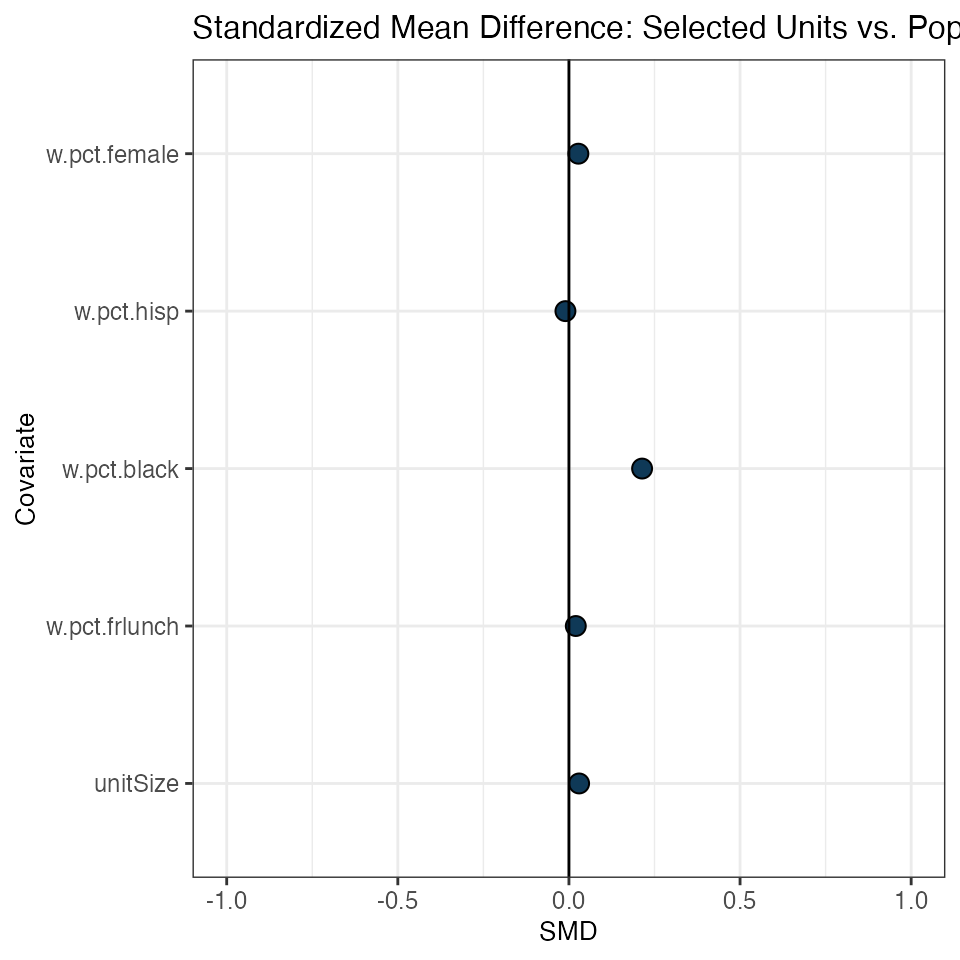
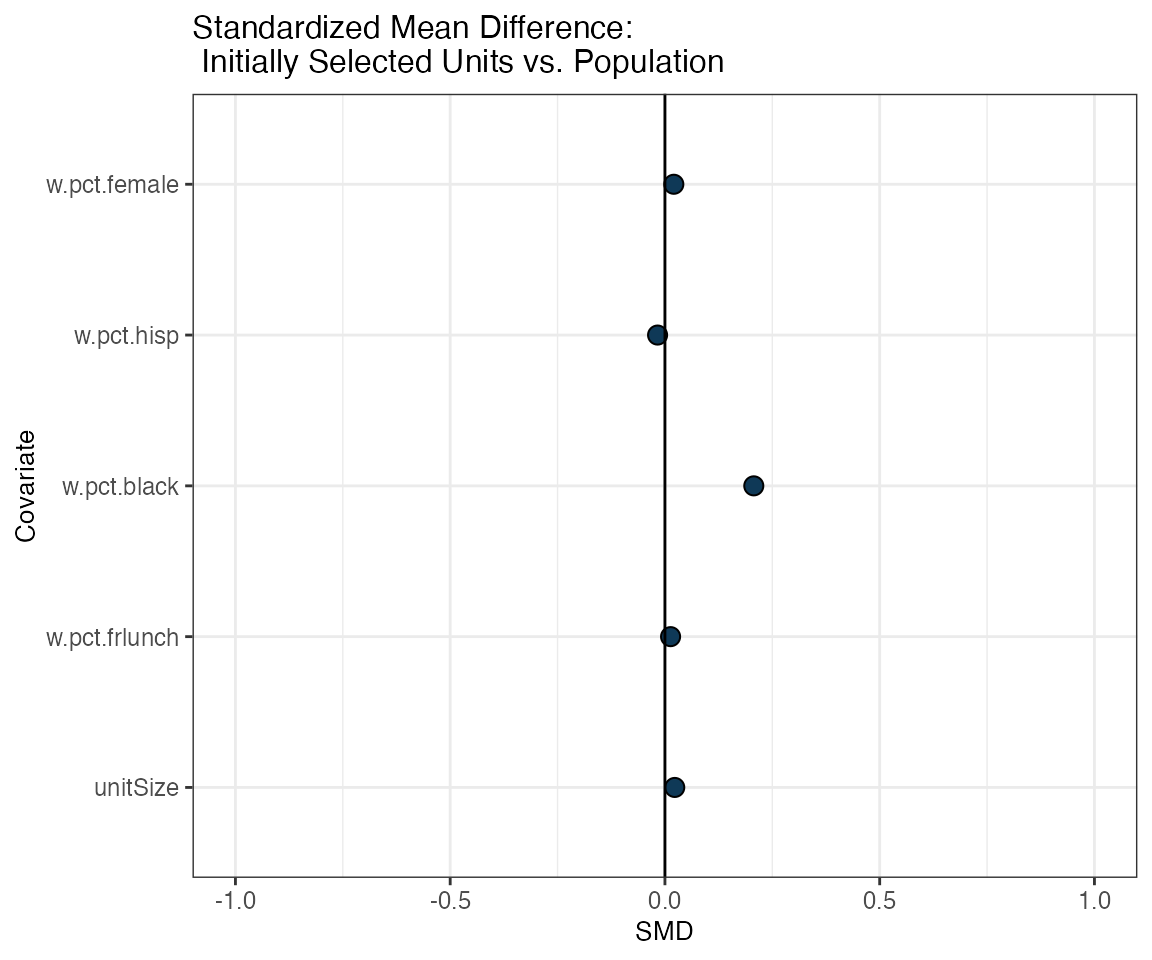
vignette edits

diff --git a/docs/articles/sitepickR-demo.html b/docs/articles/sitepickR-demo.html
@@ -209,7 +209,7 @@ where units are initially sampled. Specifically, cube sampling allows us
 to (optionally) select units in a way that is not biased by its number
 of sub-units:</p>
 <div class="sourceCode" id="cb4"><pre class="downlit sourceCode r">
-<code class="sourceCode R"><span><span class="va">dfCCD</span> <span class="op">&lt;-</span> <span class="fu">makeDF</span><span class="op">(</span><span class="va">rawCCD</span>,</span>
+<code class="sourceCode R"><span><span class="va">dfCCD</span> <span class="op">&lt;-</span> <span class="fu"><a href="../reference/makeDF.html">makeDF</a></span><span class="op">(</span><span class="va">rawCCD</span>,</span>
 <span>                 unitID<span class="op">=</span><span class="st">"LEAID"</span>, subunitID<span class="op">=</span><span class="st">"NCESSCH"</span><span class="op">)</span></span>
 <span><span class="fu"><a href="https://rdrr.io/r/utils/head.html" class="external-link">head</a></span><span class="op">(</span><span class="va">dfCCD</span><span class="op">)</span></span>
 <span><span class="co">#&gt;    LEAID     NCESSCH w.pct.frlunch w.pct.black w.pct.hisp w.pct.female</span></span>
@@ -336,8 +336,9 @@ selected districts (i.e. the group of districts that were selected in
 the initial cube sampling step of the selectMatch procedure) and
 <strong>all</strong> the districts in the population:</p>
 <div class="sourceCode" id="cb13"><pre class="downlit sourceCode r">
-<code class="sourceCode R"><span><span class="fu">unitLovePlot</span><span class="op">(</span><span class="va">m.out</span><span class="op">)</span></span></code></pre></div>
-<p><img src="sitepickR-demo_files/figure-html/unnamed-chunk-14-1.png" width="480"></p>
+<code class="sourceCode R"><span><span class="fu">unitLovePlot</span><span class="op">(</span><span class="va">m.out</span>,</span>
+<span>             title<span class="op">=</span><span class="st">"Standardized Mean Difference: \n Initially Selected Units vs. Population"</span><span class="op">)</span></span></code></pre></div>
+<p><img src="sitepickR-demo_files/figure-html/unnamed-chunk-14-1.png" width="576"></p>
 <p>We can also take a look at a table with the actual SMD for each
 covariate of interest applying the unitBalanceTab function:</p>
 <div class="sourceCode" id="cb14"><pre class="downlit sourceCode r">
@@ -358,7 +359,8 @@ districts and each of its K replacement districts groups, where group 1
 is composed of the first closest matches ordered in terms of distance,
 group 2 corresponds to the second-best matches, and so on:</p>
 <div class="sourceCode" id="cb15"><pre class="downlit sourceCode r">
-<code class="sourceCode R"><span><span class="fu"><a href="../reference/matchBalanceFig.html">matchBalanceFig</a></span><span class="op">(</span><span class="va">m.out</span><span class="op">)</span></span></code></pre></div>
+<code class="sourceCode R"><span><span class="fu">matchBalanceFig</span><span class="op">(</span><span class="va">m.out</span>, </span>
+<span>                title <span class="op">=</span> <span class="st">"Standardized Mean Difference: Replacement Unit Groups (1...K) vs. Originally Selected Units"</span><span class="op">)</span></span></code></pre></div>
 <p><img src="sitepickR-demo_files/figure-html/unnamed-chunk-16-1.png" width="864"></p>
 <div class="sourceCode" id="cb16"><pre class="downlit sourceCode r">
 <code class="sourceCode R"><span><span class="fu"><a href="../reference/matchBalanceTab.html">matchBalanceTab</a></span><span class="op">(</span><span class="va">m.out</span><span class="op">)</span></span>
@@ -437,8 +439,9 @@ imposed by exact matching, caliper value, and inherent structure and
 size of the data, as well as K, the number of matches (i.e. replacement
 candidates) we want for each of the original districts:</p>
 <div class="sourceCode" id="cb17"><pre class="downlit sourceCode r">
-<code class="sourceCode R"><span><span class="fu"><a href="../reference/matchCountFig.html">matchCountFig</a></span><span class="op">(</span><span class="va">m.out</span><span class="op">)</span></span></code></pre></div>
-<p><img src="sitepickR-demo_files/figure-html/unnamed-chunk-18-1.png" width="768"></p>
+<code class="sourceCode R"><span><span class="fu"><a href="../reference/matchCountFig.html">matchCountFig</a></span><span class="op">(</span><span class="va">m.out</span>,</span>
+<span>             title<span class="op">=</span><span class="st">"Percentage of Successful Matches per Unit Group"</span><span class="op">)</span></span></code></pre></div>
+<p><img src="sitepickR-demo_files/figure-html/unnamed-chunk-18-1.png" width="672"></p>
 </div>
 <div class="section level3">
 <h3 id="sub-units-from-original-vs--candidate-units">4. Sub-units from original vs. candidate units<a class="anchor" aria-label="anchor" href="#sub-units-from-original-vs--candidate-units"></a>
@@ -449,7 +452,8 @@ district level covariates and the school level ones. sitepickR’s
 subUnitBalance() function lets us assess the matching quality precisely
 on this terms:</p>
 <div class="sourceCode" id="cb18"><pre class="downlit sourceCode r">
-<code class="sourceCode R"><span><span class="fu">subUnitBalanceFig</span><span class="op">(</span><span class="va">m.out</span><span class="op">)</span></span></code></pre></div>
+<code class="sourceCode R"><span><span class="fu">subUnitBalanceFig</span><span class="op">(</span><span class="va">m.out</span>,</span>
+<span>                  title<span class="op">=</span><span class="st">"Subunits from Original and Replacement Unit Groups vs. Population (SMD)"</span><span class="op">)</span></span></code></pre></div>
 <p><img src="sitepickR-demo_files/figure-html/unnamed-chunk-19-1.png" width="864"></p>
 </div>
 </div>

diff --git a/docs/reference/index.html b/docs/reference/index.html
@@ -53,9 +53,9 @@
 
       <dl><dt>
           
-          <code><a href="matchBalanceFig.html">matchBalanceFig()</a></code> 
+          <code><a href="makeDF.html">makeDF()</a></code> 
         </dt>
-        <dd>Figure: SMD between sampled units vs. all units in population, for each covariate of interest</dd>
+        <dd>Prepare nested dataset</dd>
       </dl><dl><dt>
           
           <code><a href="matchBalanceTab.html">matchBalanceTab()</a></code> 
